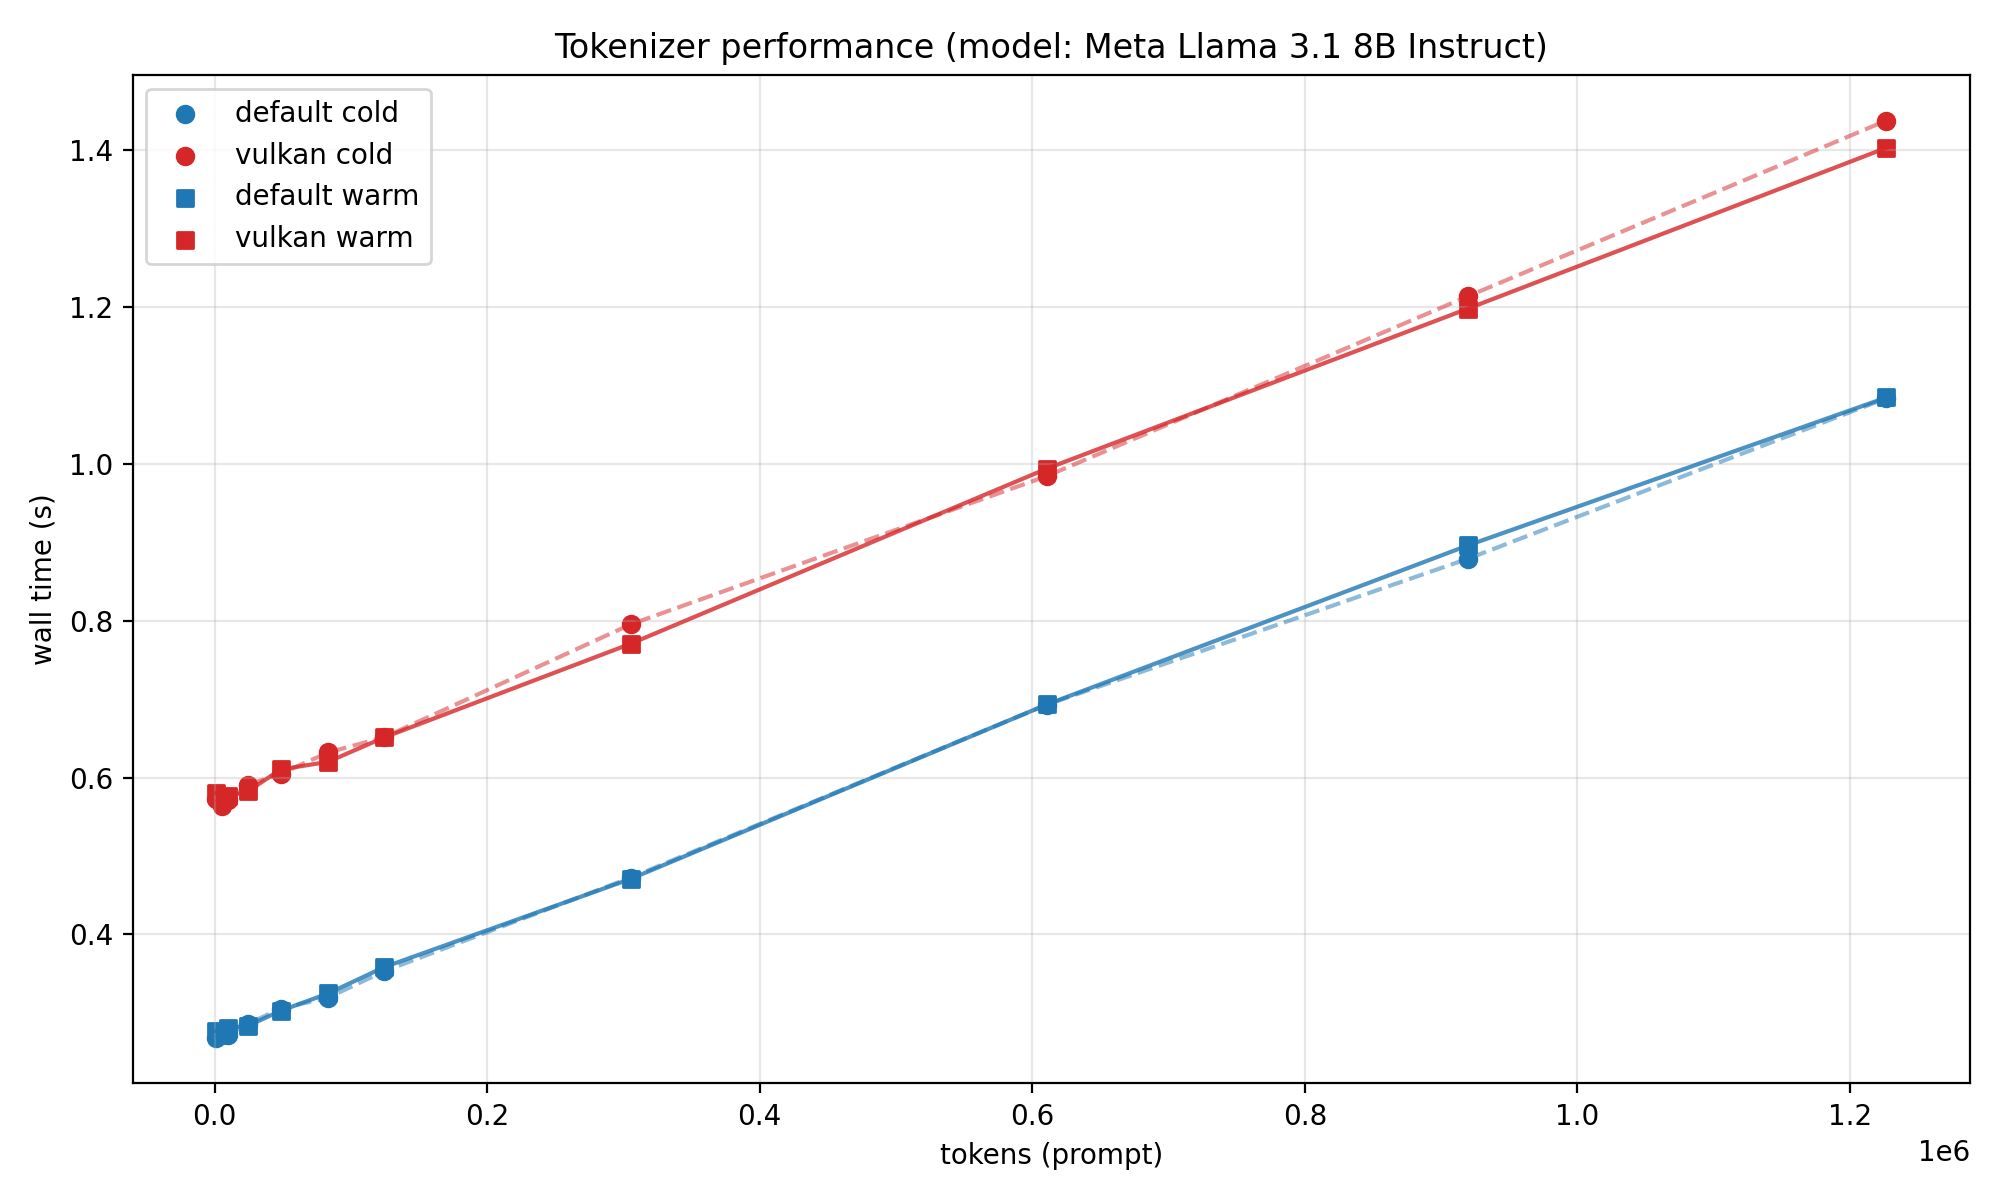
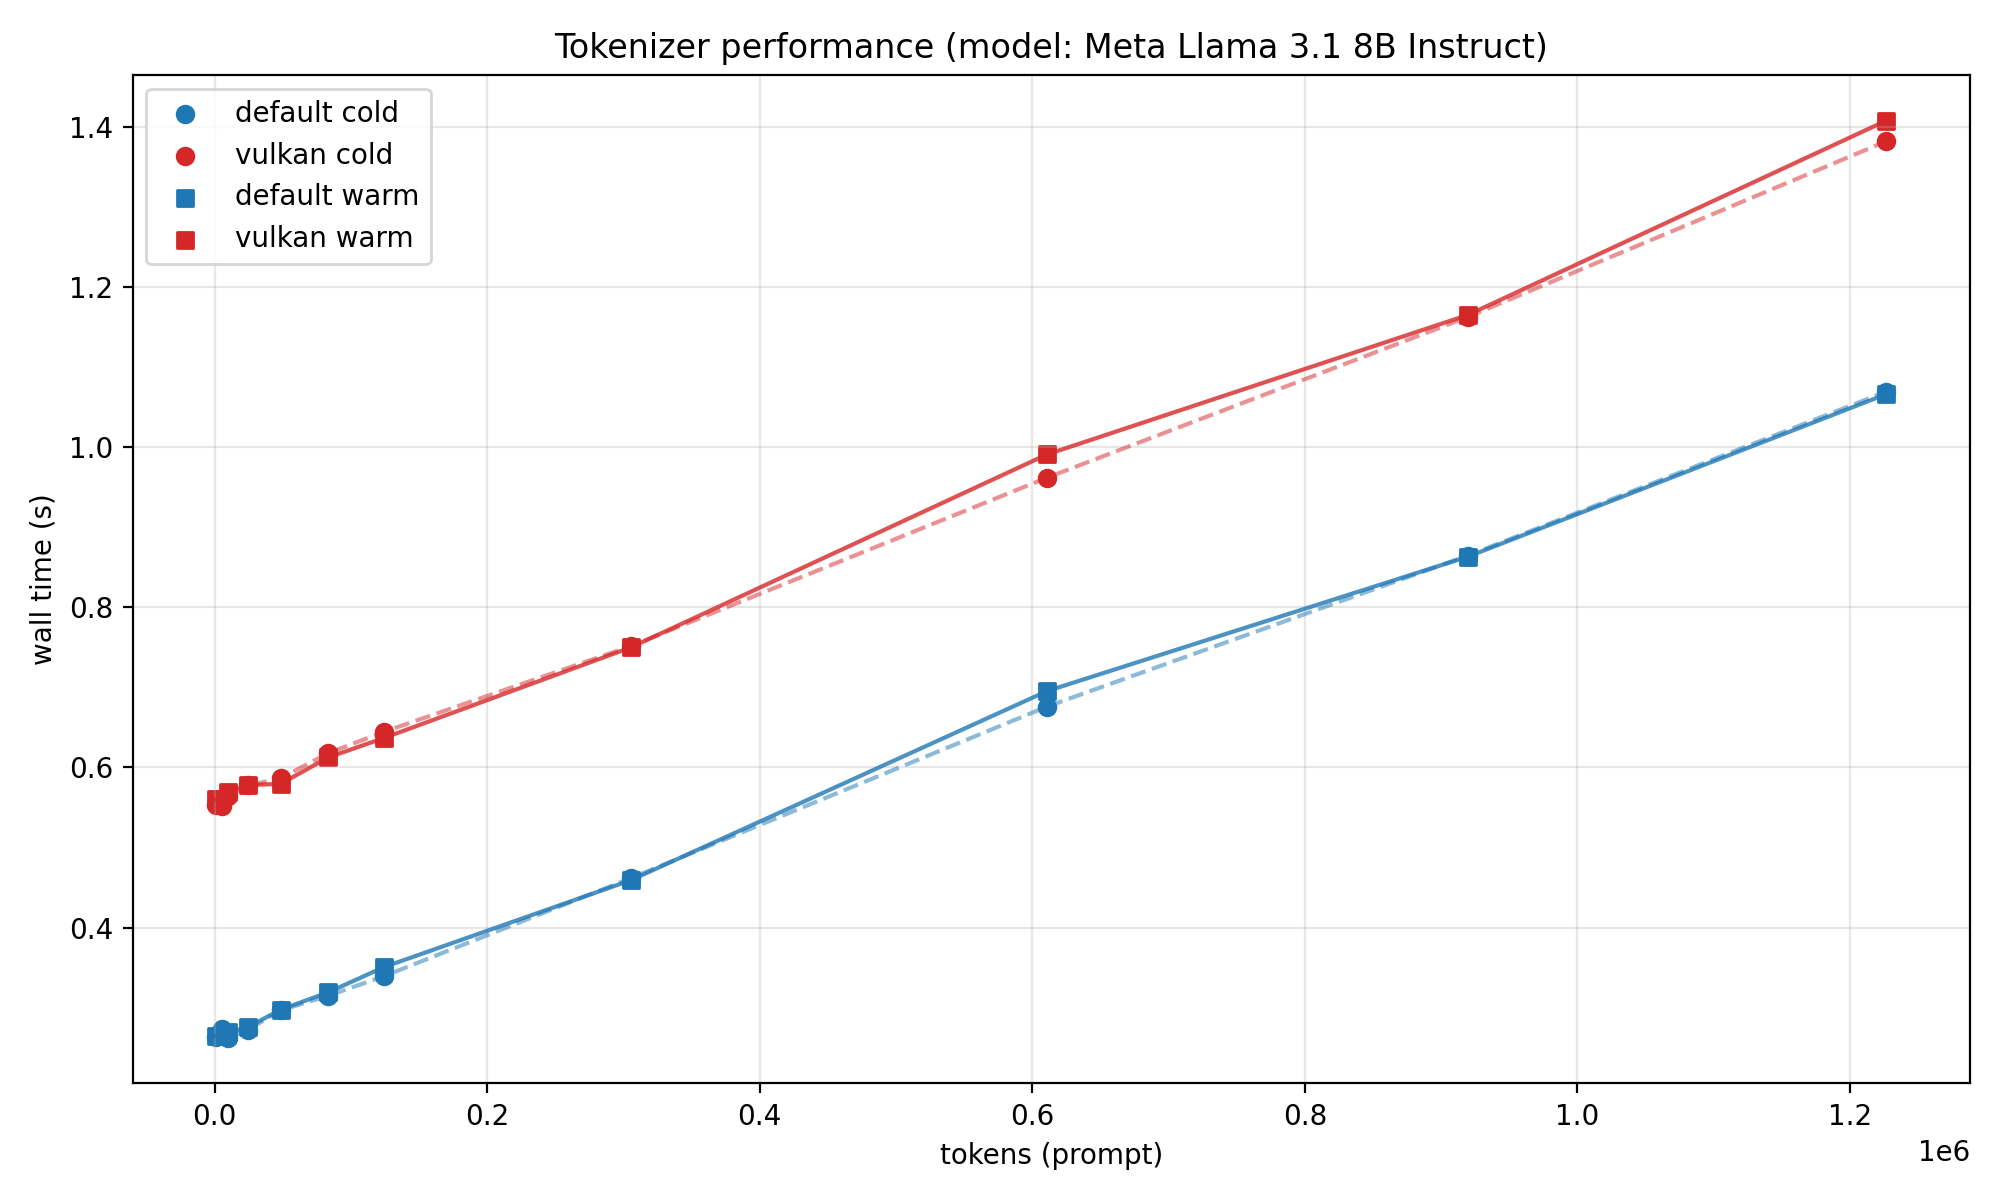
didnt work

diff --git a/src/llama-bpe-vulkan.cpp b/src/llama-bpe-vulkan.cpp
@@ -254,7 +254,7 @@ public:
         VkPushConstantRange range{};
         range.stageFlags = VK_SHADER_STAGE_COMPUTE_BIT;
         range.offset = 0;
-        range.size = sizeof(uint32_t);
+        range.size = sizeof(uint32_t) * 2; // merge_count + fast_mode
 
         VkPipelineLayoutCreateInfo plci{VK_STRUCTURE_TYPE_PIPELINE_LAYOUT_CREATE_INFO};
         plci.setLayoutCount = 1;
@@ -337,39 +337,79 @@ public:
     }
 
     bool ok() const { return ready; }
+    void set_fast_mode(bool v) { fast_mode = v; }
+    void set_approx_mode(bool v) { approx_mode = v; }
+    int get_max_word_len() const { return max_word_len; }
 
     bool encode(const std::vector<std::string> & words, std::vector<llama_token> & out_tokens) override {
         if (!ready || words.empty()) {
             return false;
         }
-        // Build initial symbol stream from bytes
+        return encode_single(words, out_tokens);
+    }
+
+    bool encode_batch_public(const std::vector<std::vector<std::string>> & batch_words,
+                             std::vector<std::vector<llama_token>> & out_tokens_batch) {
+        return encode_batch(batch_words, out_tokens_batch);
+    }
+
+private:
+    bool encode_single(const std::vector<std::string> & words, std::vector<llama_token> & out_tokens) {
+        std::vector<std::vector<std::string>> batch{words};
+        std::vector<std::vector<llama_token>> out_batch;
+        if (!encode_batch(batch, out_batch)) return false;
+        out_tokens = std::move(out_batch[0]);
+        return true;
+    }
+
+    bool encode_batch(const std::vector<std::vector<std::string>> & batch_words,
+                      std::vector<std::vector<llama_token>> & out_tokens_batch) {
+        // flatten words
         std::vector<word_meta> meta;
         std::vector<uint32_t> symbols;
-        meta.reserve(words.size());
-
-        for (const auto & w : words) {
-            if (static_cast<int>(w.size()) > max_word_len) {
-                return false;
-            }
-            word_meta m;
-            m.offset = static_cast<uint32_t>(symbols.size());
-            m.len = static_cast<uint32_t>(w.size());
-            meta.push_back(m);
-            for (unsigned char c : w) {
-                const std::string s(1, static_cast<char>(c));
-                const auto id = vocab.text_to_token(s);
-                if (id == LLAMA_TOKEN_NULL) {
+        meta.reserve(batch_words.size() * 8);
+        for (const auto & words : batch_words) {
+            for (const auto & w : words) {
+                if (static_cast<int>(w.size()) > max_word_len) {
                     return false;
                 }
-                symbols.push_back(static_cast<uint32_t>(id));
+                word_meta m;
+                m.offset = static_cast<uint32_t>(symbols.size());
+                m.len = static_cast<uint32_t>(w.size());
+                meta.push_back(m);
+                for (unsigned char c : w) {
+                    const std::string s(1, static_cast<char>(c));
+                    const auto id = vocab.text_to_token(s);
+                    if (id == LLAMA_TOKEN_NULL) {
+                        return false;
+                    }
+                    symbols.push_back(static_cast<uint32_t>(id));
+                }
             }
         }
+        if (symbols.empty()) return false;
 
-        const size_t total_symbols = symbols.size();
-        if (total_symbols == 0) {
-            return false;
+        if (!encode_flat(meta, symbols)) return false;
+
+        // split outputs
+        out_tokens_batch.clear();
+        out_tokens_batch.reserve(batch_words.size());
+        size_t meta_idx = 0;
+        for (const auto & words : batch_words) {
+            std::vector<llama_token> toks;
+            for (size_t i = 0; i < words.size(); ++i) {
+                const auto & m = last_out_meta[meta_idx];
+                for (uint32_t j = 0; j < m.len; ++j) {
+                    toks.push_back(static_cast<llama_token>(last_out_symbols[m.offset + j]));
+                }
+                ++meta_idx;
+            }
+            out_tokens_batch.push_back(std::move(toks));
         }
+        return true;
+    }
 
+    bool encode_flat(const std::vector<word_meta> & meta, const std::vector<uint32_t> & symbols) {
         const VkDeviceSize meta_size = sizeof(word_meta) * meta.size();
         const VkDeviceSize sym_size = sizeof(uint32_t) * symbols.size();
         const VkDeviceSize links_size = sizeof(link_pair) * symbols.size();
@@ -389,15 +429,12 @@ public:
         out_ptr = out_buf.ptr;
         out_meta_ptr = out_meta_buf.ptr;
 
-        // upload inputs
         std::memcpy(meta_ptr, meta.data(), meta_size);
         std::memcpy(symbols_ptr, symbols.data(), sym_size);
         std::memset(links_ptr, 0xff, links_size); // initialize links to -1
 
-        // Update descriptors in case buffers resized
         update_descriptors();
 
-        // record command buffer
         vkResetCommandPool(ctx.device, ctx.command_pool, 0);
         VkCommandBufferBeginInfo cbbi{VK_STRUCTURE_TYPE_COMMAND_BUFFER_BEGIN_INFO};
         if (vkBeginCommandBuffer(cmd, &cbbi) != VK_SUCCESS) {
@@ -405,8 +442,8 @@ public:
         }
         vkCmdBindPipeline(cmd, VK_PIPELINE_BIND_POINT_COMPUTE, ctx.pipeline);
         vkCmdBindDescriptorSets(cmd, VK_PIPELINE_BIND_POINT_COMPUTE, ctx.pipeline_layout, 0, 1, &descriptor_set, 0, nullptr);
-        uint32_t merge_count = static_cast<uint32_t>(merges.size());
-        vkCmdPushConstants(cmd, ctx.pipeline_layout, VK_SHADER_STAGE_COMPUTE_BIT, 0, sizeof(uint32_t), &merge_count);
+        uint32_t pc_data[3] = { static_cast<uint32_t>(merges.size()), fast_mode ? 1u : 0u, approx_mode ? 1u : 0u };
+        vkCmdPushConstants(cmd, ctx.pipeline_layout, VK_SHADER_STAGE_COMPUTE_BIT, 0, sizeof(pc_data), pc_data);
         vkCmdDispatch(cmd, static_cast<uint32_t>(meta.size()), 1, 1);
         if (vkEndCommandBuffer(cmd) != VK_SUCCESS) {
             return false;
@@ -429,27 +466,16 @@ public:
         }
         vkDestroyFence(ctx.device, fence, nullptr);
 
-        // read back (buffers are host coherent; invalidate for safety)
         out_buf.buf.invalidate(ctx.device, out_size);
         out_meta_buf.buf.invalidate(ctx.device, out_meta_size);
 
-        std::vector<word_meta> out_meta(meta.size());
-        std::memcpy(out_meta.data(), out_meta_ptr, out_meta_size);
-
-        std::vector<uint32_t> out_symbols(symbols.size());
-        std::memcpy(out_symbols.data(), out_ptr, out_size);
-
-        for (const auto & m : out_meta) {
-            for (uint32_t i = 0; i < m.len; ++i) {
-                const auto tok = out_symbols[m.offset + i];
-                out_tokens.push_back(static_cast<llama_token>(tok));
-            }
-        }
-
+        last_out_meta.resize(meta.size());
+        last_out_symbols.resize(symbols.size());
+        std::memcpy(last_out_meta.data(), out_meta_ptr, out_meta_size);
+        std::memcpy(last_out_symbols.data(), out_ptr, out_size);
         return true;
     }
 
-private:
     struct mapped_buffer {
         vk_buffer buf;
         void * ptr = nullptr;
@@ -568,7 +594,11 @@ private:
     void * links_ptr = nullptr;
     void * out_ptr = nullptr;
     void * out_meta_ptr = nullptr;
+    bool fast_mode = false;
+    bool approx_mode = false;
     bool ready = false;
+    std::vector<word_meta> last_out_meta;
+    std::vector<uint32_t> last_out_symbols;
 };
 
 std::vector<merge_entry> build_merge_table(const llama_vocab & vocab) {
@@ -633,10 +663,28 @@ std::unique_ptr<llama_bpe_vulkan> llama_bpe_vulkan_create(const llama_vocab & vo
     }
 
     auto impl = std::make_unique<llama_bpe_vulkan_impl>(vocab, max_word_len, std::move(merges), std::move(shader_code));
+    // Fast/approx mode toggle via env
+    const char * fast_env = std::getenv("LLAMA_BPE_VK_FAST");
+    if (fast_env && std::strlen(fast_env) > 0 && impl) {
+        impl->set_fast_mode(true);
+    }
+    const char * approx_env = std::getenv("LLAMA_BPE_VK_APPROX");
+    if (approx_env && std::strlen(approx_env) > 0 && impl) {
+        impl->set_approx_mode(true);
+    }
     if (!impl->ok()) {
         return nullptr;
     }
     return impl;
+}
+
+bool llama_bpe_vulkan_encode_batch(
+    llama_bpe_vulkan & engine,
+    const std::vector<std::vector<std::string>> & batch_words,
+    std::vector<std::vector<llama_token>> & out_tokens_batch) {
+    auto * impl = dynamic_cast<llama_bpe_vulkan_impl *>(&engine);
+    if (!impl) return false;
+    return impl->encode_batch_public(batch_words, out_tokens_batch);
 }
 
 bool llama_bpe_vulkan_encode(llama_bpe_vulkan & engine, const std::vector<std::string> & words, std::vector<llama_token> & out_tokens) {

diff --git a/scripts/benchmark_tokenizers_plot.py b/scripts/benchmark_tokenizers_plot.py
@@ -142,6 +142,60 @@ def collect_series(
     return rows
 
 
+def collect_series_batched(
+    binary: Path,
+    model: Path,
+    corpus: str,
+    target_char_lengths: Iterable[int],
+    runs: int,
+    warmup: int,
+    batch_size: int,
+) -> List[Dict[str, float]]:
+    # Batch the same prompt N times to amortize overhead; report per-prompt time.
+    rows = []
+    for target in target_char_lengths:
+        prompt = make_prompt(corpus, target)
+        prompts = [prompt] * batch_size
+        # warmup
+        for _ in range(warmup):
+            tokenize_once(binary, model, prompt, env_extra={})
+            tokenize_once(binary, model, prompt, env_extra={"LLAMA_BPE_VK": "1"})
+
+        times_def: List[float] = []
+        times_vk: List[float] = []
+        tokens_ref = None
+        for _ in range(runs):
+            elapsed_def = 0.0
+            for p in prompts:
+                t_def, tokens = tokenize_once(binary, model, p, env_extra={})
+                elapsed_def += t_def
+                if tokens_ref is None:
+                    tokens_ref = tokens
+            elapsed_vk = 0.0
+            for p in prompts:
+                t_vk, tokens_vk = tokenize_once(binary, model, p, env_extra={"LLAMA_BPE_VK": "1"})
+                elapsed_vk += t_vk
+                if tokens_ref is not None and tokens_vk != tokens_ref:
+                    raise RuntimeError(f"Token mismatch in batch at chars={target}")
+            times_def.append(elapsed_def / batch_size)
+            times_vk.append(elapsed_vk / batch_size)
+
+        rows.append(
+            {
+                "target_chars": target,
+                "tokens": tokens_ref or -1,
+                "t_default": mean(times_def),
+                "t_vk": mean(times_vk),
+            }
+        )
+        print(
+            f"[batch={batch_size}] chars ~{target:>7}, tokens {tokens_ref:>7} | "
+            f"default avg {mean(times_def):.3f}s | vulkan avg {mean(times_vk):.3f}s "
+            f"(runs={runs}, warmup={warmup})"
+        )
+    return rows
+
+
 def collect_cold_and_warm(
     binary: Path,
     model: Path,
@@ -240,6 +294,8 @@ def parse_args() -> argparse.Namespace:
         help="Directory for output plots (used for multi-model runs).",
     )
     parser.add_argument("--title", default=None, help="Plot title. Default includes model name if available.")
+    parser.add_argument("--batch-size", type=int, default=1, help="Number of prompts to batch together.")
+    parser.add_argument("--fast-vk", action="store_true", help="Set LLAMA_BPE_VK_FAST=1 for approximate Vulkan path.")
     return parser.parse_args()
 
 

diff --git a/src/llama-bpe-vulkan-batch.h b/src/llama-bpe-vulkan-batch.h
@@ -1,26 +1,18 @@
 #pragma once
 
 #include "llama.h"
-
 #include <memory>
-#include <string>
 #include <vector>
+#include <string>
 
 struct llama_vocab;
 
-struct llama_bpe_vulkan {
-    virtual ~llama_bpe_vulkan() = default;
-    virtual bool encode(const std::vector<std::string> & words, std::vector<llama_token> & out_tokens) = 0;
-};
-
 // Create a Vulkan-backed BPE tokenizer helper.
-// Returns nullptr if Vulkan is unavailable or the vocab cannot be mapped to token ids.
 std::unique_ptr<llama_bpe_vulkan> llama_bpe_vulkan_create(const llama_vocab & vocab, int max_word_len);
-
-// Encode a batch of already pre-tokenized words. Returns false on failure and leaves output untouched.
 bool llama_bpe_vulkan_encode(llama_bpe_vulkan & engine, const std::vector<std::string> & words, std::vector<llama_token> & out_tokens);
 
-// Batched encode: flatten multiple word lists into one dispatch.
+// Batched encode: flattens multiple prompts (each split into words) and runs one Vulkan dispatch.
+// Returns false if any prompt exceeds max_word_len or a Vulkan failure occurs.
 bool llama_bpe_vulkan_encode_batch(
     llama_bpe_vulkan & engine,
     const std::vector<std::vector<std::string>> & batch_words,
